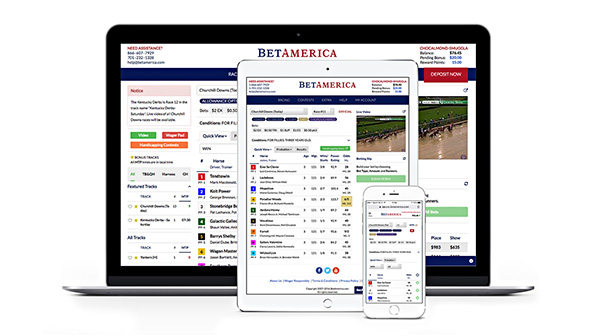
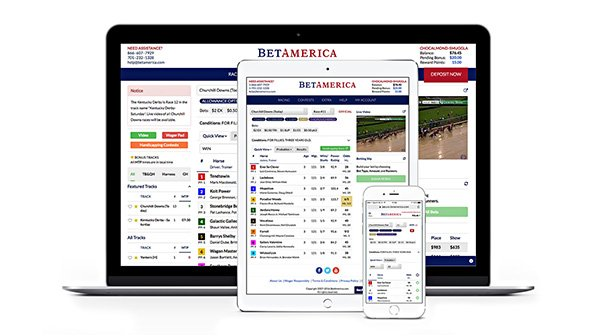
remove imagemin from Gulp, add externally optimized images

diff --git a/gulpfile.js b/gulpfile.js
@@ -7,8 +7,7 @@ let concat = require('gulp-concat');
 let del = require('del');
 let jshint = require('gulp-jshint');
 let uglify = require('gulp-uglify');
-let imagemin = require('gulp-imagemin'),
-    cache = require('gulp-cache');
+let cache = require('gulp-cache');
 let cleanCSS = require('gulp-clean-css');
 let sass = require('gulp-sass');
 let browserSync = require('browser-sync');
@@ -27,7 +26,6 @@ gulp.task('bs-reload', function () {
 
 gulp.task('images', function(){
   gulp.src('src/images/**/*')
-    .pipe(cache(imagemin({ optimizationLevel: 3, progressive: true, interlaced: true }, { verbose: true})))
     .pipe(gulp.dest('dist/images/'));
 });
 
